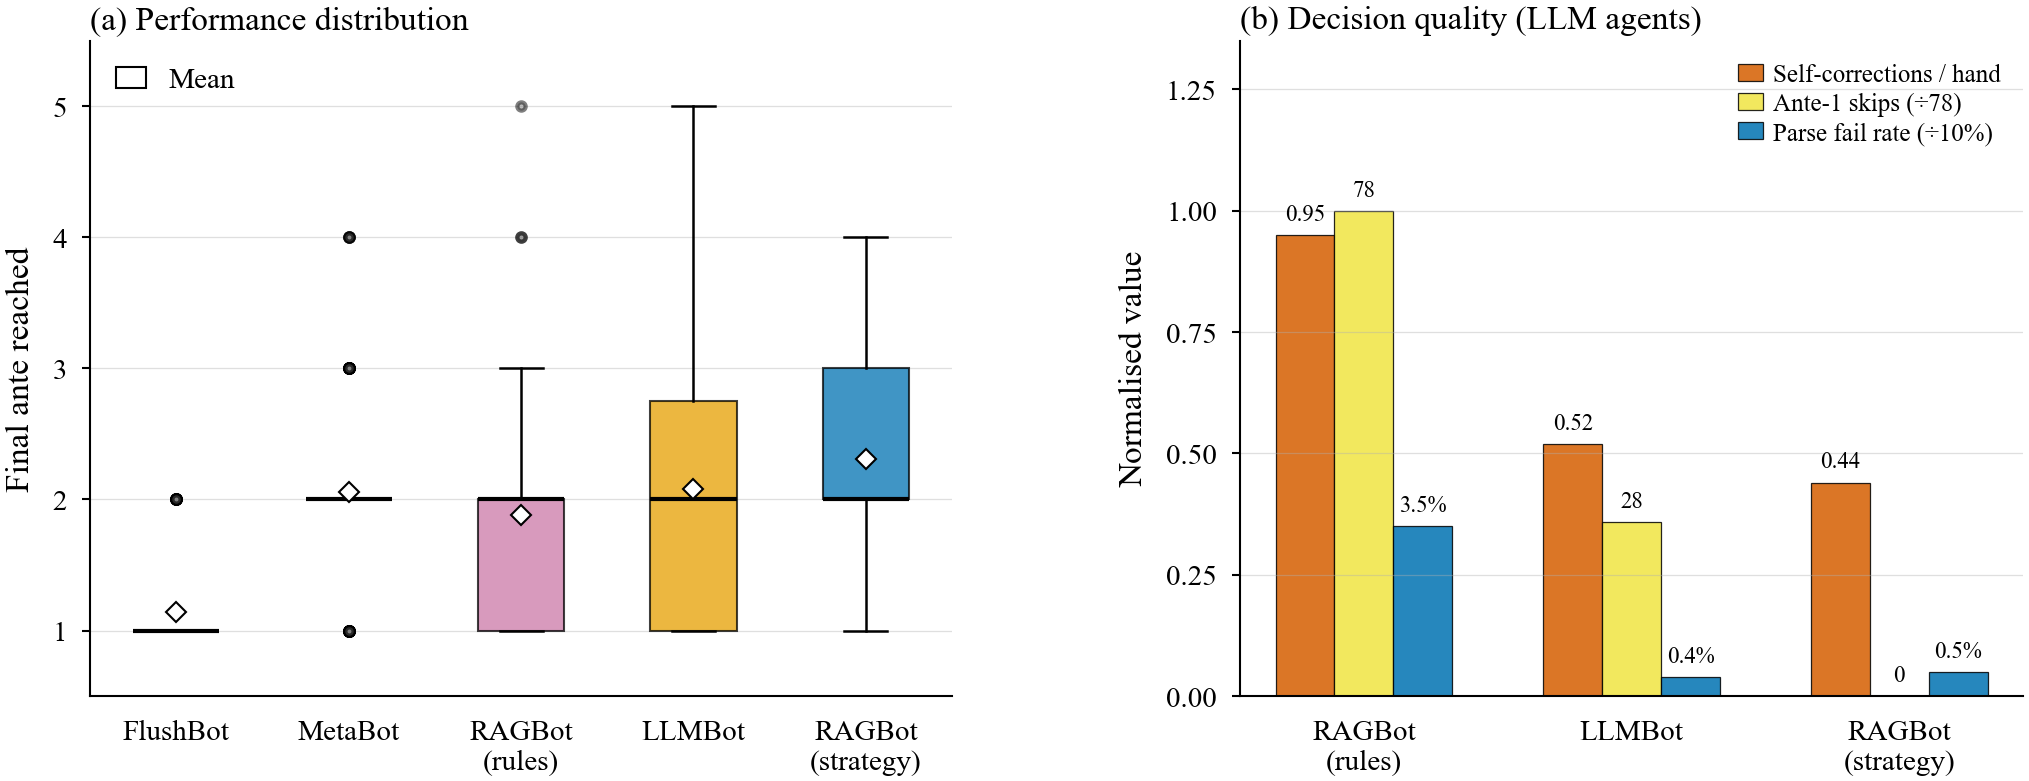
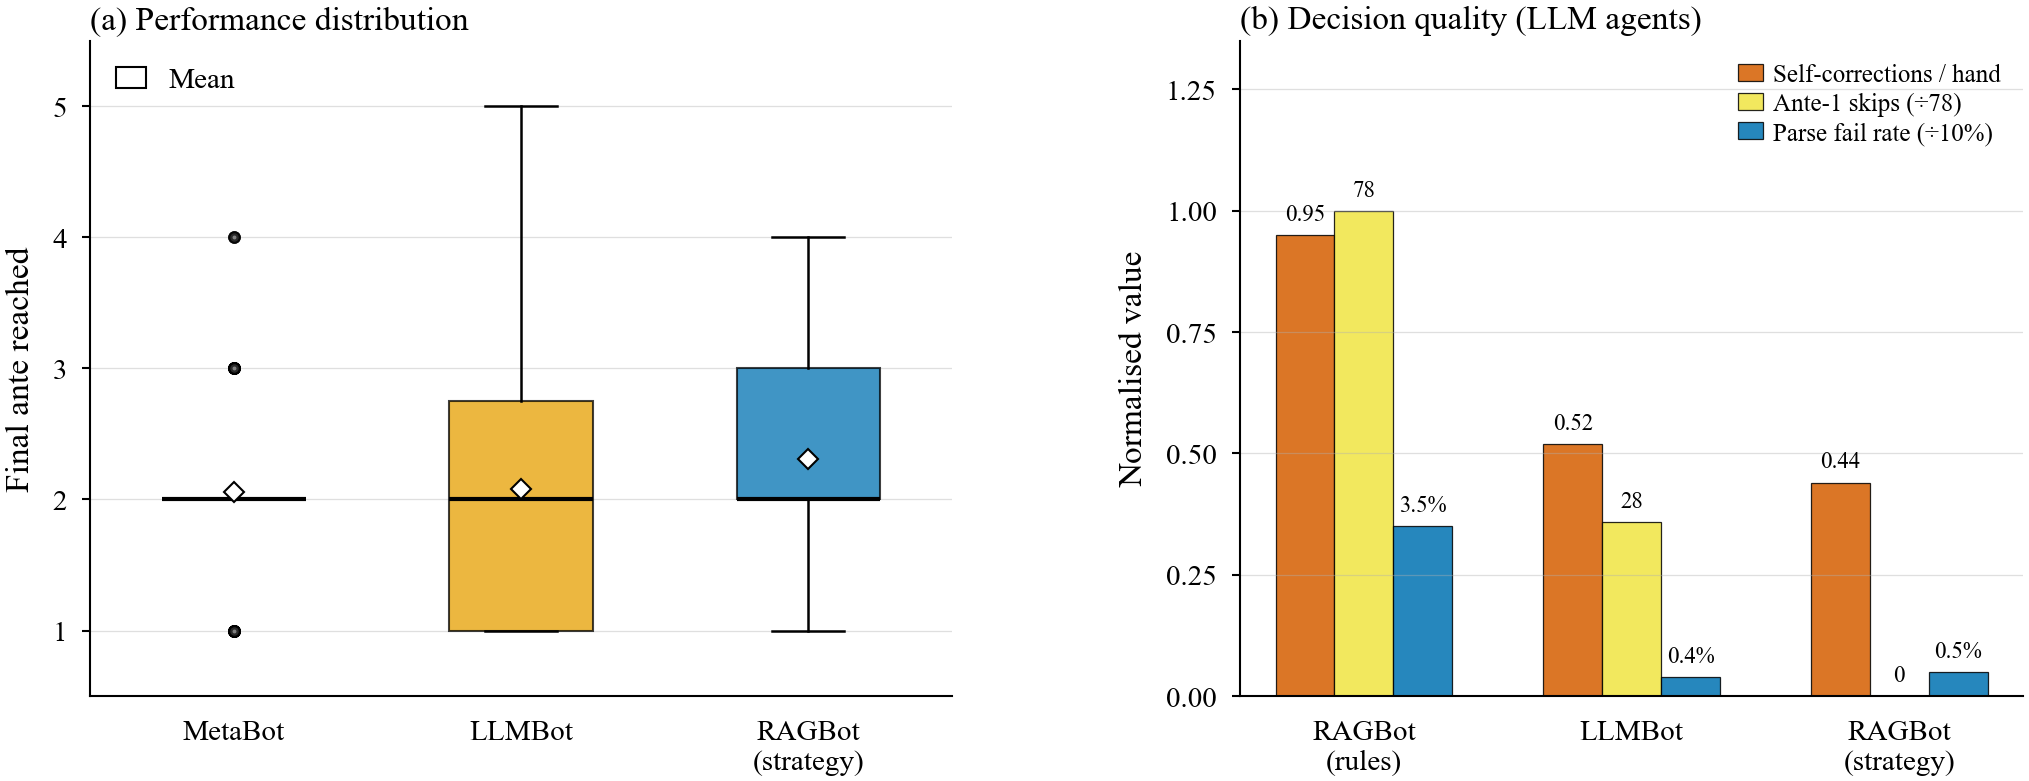
tweaked code and figure

diff --git a/plot_figure.py b/plot_figure.py
@@ -53,7 +53,7 @@ BOT_LABELS = {
     "rag_meta_bot": "RAGBot\n(strategy)",
 }
 
-BOT_ORDER = ["flush_bot", "meta_bot", "rag_llm_bot", "llm_bot", "rag_meta_bot"]
+BOT_ORDER = ["meta_bot", "llm_bot", "rag_meta_bot"]
 
 LLM_BOTS       = ["rag_llm_bot", "llm_bot", "rag_meta_bot"]
 LLM_BOT_LABELS = ["RAGBot\n(rules)", "LLMBot", "RAGBot\n(strategy)"]
